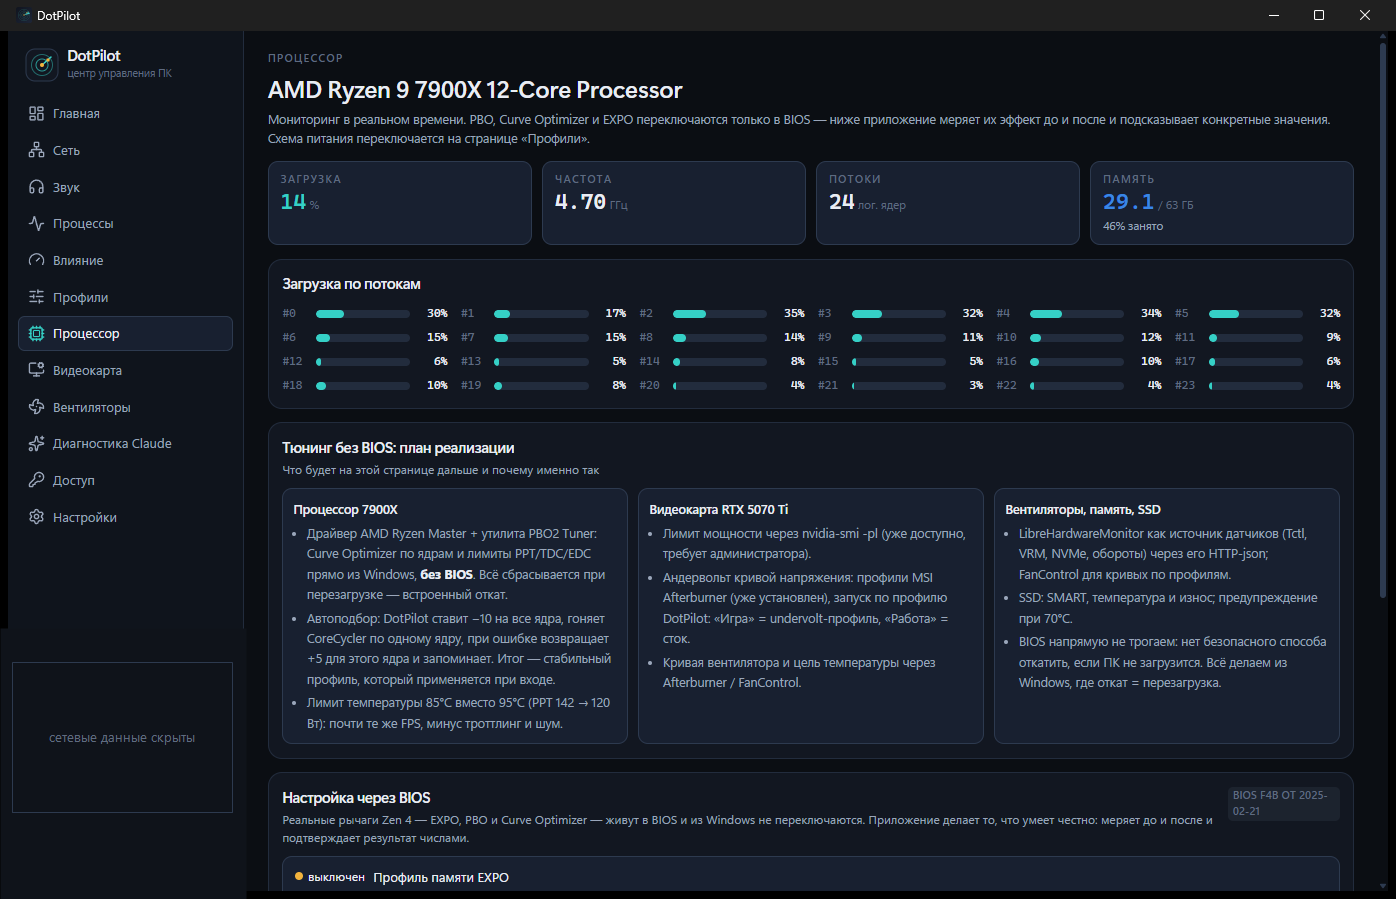
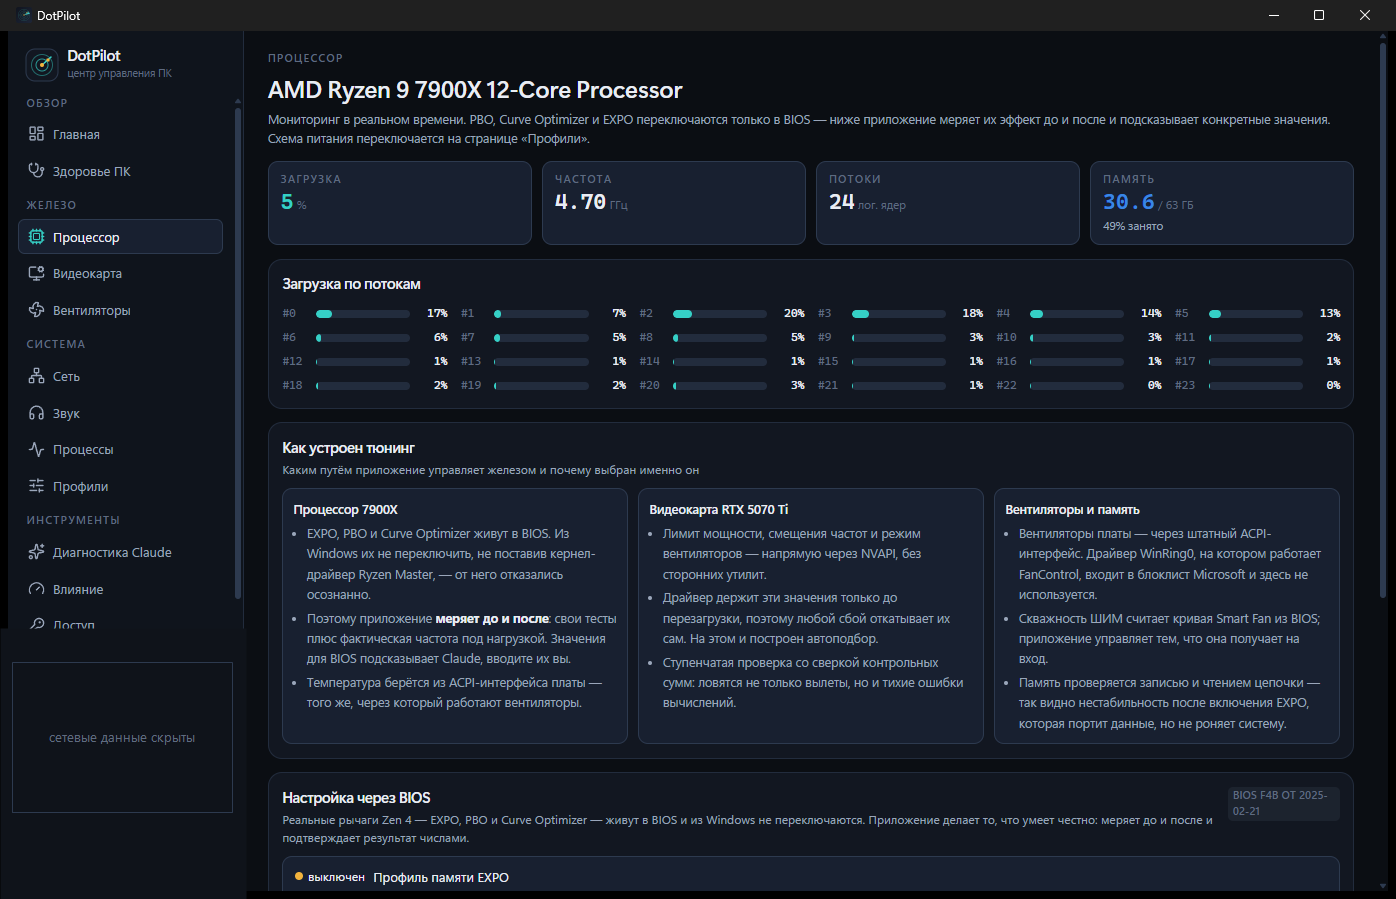
Снимки интерфейса в README
Четыре страницы, снятые через PrintWindow: он просит окно нарисовать
себя в переданный контекст устройства, а не копирует прямоугольник
экрана, поэтому перекрывающее окно в кадр попасть не может. Флаг
PW_RENDERFULLCONTENT обязателен — без него окна на DirectComposition,
к которым относится WebView2, отдают пустой кадр.

Панель «Линия связи» закрашена на всех снимках: там сетевые адреса
машины, на которой снималось.

DotPilot.baselines.json добавлен в .gitignore — это локальное
состояние замеров, а не часть проекта.

diff --git a/README.md b/README.md
@@ -1,6 +1,12 @@
 # DotPilot
 
-Портативный центр управления ПК: сеть, звук, профили, доступ — сегодня; CPU / GPU / вентиляторы — дальше.
+Портативный центр управления ПК: сеть, звук и профили, разгон видеокарты с автоматическим откатом, вентиляторы платы, оценка состояния железа.
+
+![Здоровье ПК](docs/health.png)
+
+Каждый вывод показывает, что измерено и с какой нормой сравнено. Нормы привязаны к поколению железа: 95 °C для Ryzen 7000 — рабочий предел, а не авария, и оценка это учитывает.
+
+> Панель «Линия связи» на снимках закрашена: там сетевые адреса машины, на которой снималось.
 
 ## Стек
 
@@ -29,6 +35,8 @@
 Наведи на любую кнопку, переключатель или подпись с «?» — всплывёт объяснение: что делает, что изменится, что рекомендуется.
 
 ## Разгон видеокарты
+
+![Видеокарта](docs/gpu.png)
 
 Управление идёт напрямую через `nvapi64.dll`. Библиотека не экспортирует функции по именам — есть единственный экспорт `nvapi_QueryInterface(id)`, поэтому все вызовы резолвятся по числовым идентификаторам, а структуры описаны вручную в `src-tauri/src/nvapi.rs`.
 
@@ -73,6 +81,8 @@
 
 ## Вентиляторы платы
 
+![Вентиляторы](docs/fans.png)
+
 `src-tauri/src/fanctl.rs`. Обычный путь для управления корпусными вентиляторами — драйвер WinRing0, на котором работает FanControl. Он не подошёл: **этот драйвер входит в блоклист уязвимых драйверов Microsoft**, а блоклист по умолчанию включён. Чтобы им пользоваться, пришлось бы снять системную защиту от целого класса драйверов, и заодно получить видимое анти-читам вмешательство в ядро.
 
 Вместо этого используется штатный ACPI-интерфейс платы: WMI-класс `GSA1_ACPIMethod` (`ACPI\PNP0C14\GSADEV0_0`) с семейством методов `ZFC*`. Он идёт через инбоксовый ACPI-маппер Microsoft — без стороннего драйвера, без конфликта с блоклистом и без риска для игровых аккаунтов.
@@ -86,6 +96,8 @@
 Побочная польза: этот же интерфейс отдаёт температуру процессора, для которой иначе понадобился бы кернел-драйвер.
 
 ## Советник по BIOS
+
+![Процессор](docs/cpu.png)
 
 `src-tauri/src/platform.rs`. Реальные рычаги Zen 4 — EXPO, PBO и Curve Optimizer — живут в BIOS, и из Windows их не переключить без кернел-драйвера. Поэтому приложение делает то, что умеет честно: **меряет до и после**. Владелец меняет значение в BIOS, а приложение говорит числами, стало ли лучше.
 
